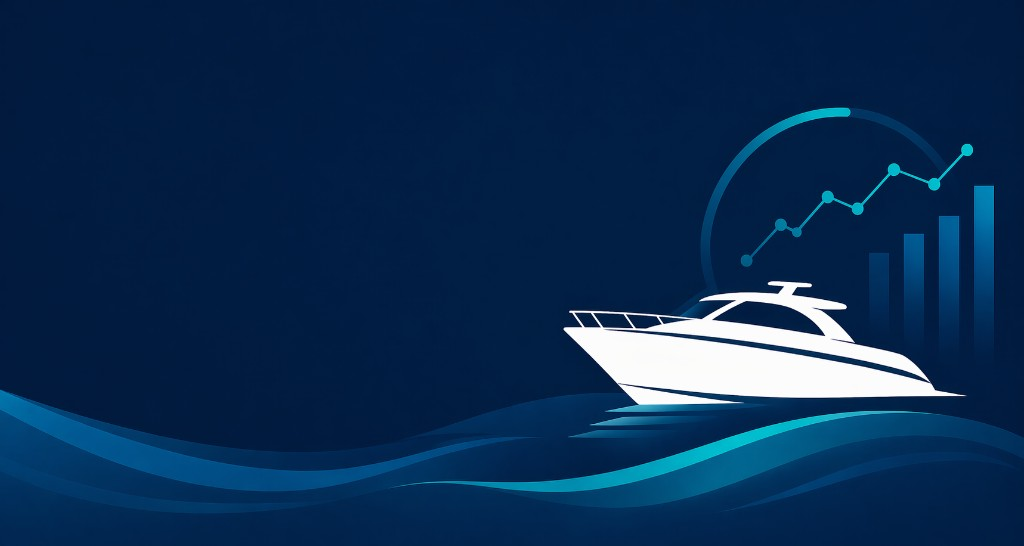
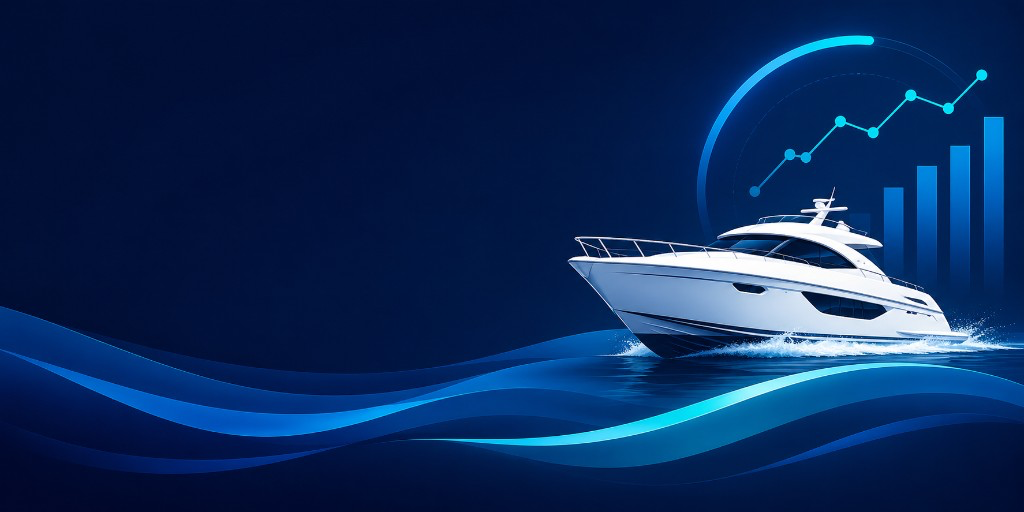
feat(hero): new header cover art and align hero framing
Use updated header-bg assets; position hero background right for layout balance.
Load global cached listings for deal insights on Index and My Boats. Add strict sailboat catamaran correction migration.

diff --git a/src/pages/Index.tsx b/src/pages/Index.tsx
@@ -164,6 +164,7 @@ const Index = () => {
   const [savedIds, setSavedIds] = useState<Set<string>>(new Set());
   const [goodDealsOnly, setGoodDealsOnly] = useState(false);
   const [compareIds, setCompareIds] = useState<Set<string>>(new Set());
+  const [marketListings, setMarketListings] = useState<CachedListing[]>([]);
   const [compareOpen, setCompareOpen] = useState(false);
   const [selectedGuideId, setSelectedGuideId] = useState<string | null>(null);
   const [importOpen, setImportOpen] = useState(false);
@@ -320,6 +321,27 @@ const Index = () => {
     fetchListings();
   }, [boatTypeFilter, sourceFilter, userCoords]);
 
+  useEffect(() => {
+    const fetchMarketListings = async () => {
+      try {
+        const { data, error } = await supabase
+          .from("cached_listings")
+          .select("*")
+          .not("price_eur", "is", null)
+          .not("length_feet", "is", null)
+          .not("year", "is", null)
+          .not("segment", "is", null)
+          .limit(100000);
+        if (!error && data) {
+          setMarketListings(data as CachedListing[]);
+        }
+      } catch (e) {
+        console.error("Failed to fetch global market listings:", e);
+      }
+    };
+    fetchMarketListings();
+  }, []);
+
   const availableSegments = (() => {
     const base = listings.filter((l) => !!l.segment);
     const scoped =
@@ -371,7 +393,7 @@ const Index = () => {
       if (!haystack.includes(q)) return false;
     }
     if (goodDealsOnly) {
-      const insight = getDealInsight(l, listings);
+      const insight = getDealInsight(l, marketListings);
       if (!insight.gapPct || insight.gapPct < 12) return false;
     }
     return true;
@@ -383,8 +405,8 @@ const Index = () => {
     if (sortBy === "length_high") return (b.length_feet ?? 0) - (a.length_feet ?? 0);
     if (sortBy === "year_newest") return (b.year ?? 0) - (a.year ?? 0);
     if (sortBy === "best_deal") {
-      const aGap = getDealInsight(a, listings).gapPct ?? -9999;
-      const bGap = getDealInsight(b, listings).gapPct ?? -9999;
+      const aGap = getDealInsight(a, marketListings).gapPct ?? -9999;
+      const bGap = getDealInsight(b, marketListings).gapPct ?? -9999;
       return bGap - aGap;
     }
     return new Date(b.scraped_at).getTime() - new Date(a.scraped_at).getTime();
@@ -752,7 +774,7 @@ const Index = () => {
   }
 
   const topDealsCandidates = listings
-    .map((listing) => ({ listing, insight: getDealInsight(listing, listings) }))
+    .map((listing) => ({ listing, insight: getDealInsight(listing, marketListings) }))
     .filter(
       (x) =>
         x.insight.gapPct !== null &&
@@ -1179,7 +1201,7 @@ const Index = () => {
             <div className="grid gap-3 sm:grid-cols-2 lg:grid-cols-3 xl:grid-cols-4 animate-fade-in">
               {paginatedListings.map((listing) => {
                 const img = getImageUrl(listing);
-                const insight = getDealInsight(listing, listings);
+                const insight = getDealInsight(listing, marketListings);
                 return (
                   <BoatListingCard
                     key={listing.id}
@@ -1345,7 +1367,7 @@ const Index = () => {
           </Card>
           <div className="grid gap-3 sm:grid-cols-2 lg:grid-cols-4">
             {compareListings.map((b) => {
-              const insight = getDealInsight(b, listings);
+              const insight = getDealInsight(b, marketListings);
               const img = getImageUrl(b);
               return (
                 <Card key={`cmp-${b.id}`} className="overflow-hidden border-border/60 shadow-sm hover:shadow-md transition-shadow bg-card/95">

diff --git a/src/pages/MyBoats.tsx b/src/pages/MyBoats.tsx
@@ -50,6 +50,7 @@ const MyBoats = () => {
   const [boats, setBoats] = useState<SavedBoat[]>(getSavedBoats);
   const [listings, setListings] = useState<SavedListing[]>(getSavedListings);
   const [cachedListings, setCachedListings] = useState<CachedListing[]>([]);
+  const [marketListings, setMarketListings] = useState<CachedListing[]>([]);
   const [selectedListing, setSelectedListing] = useState<CachedListing | null>(null);
   const [modalOpen, setModalOpen] = useState(false);
   const [modalInitialTab, setModalInitialTab] = useState<"details" | "evaluate" | "costs">("details");
@@ -93,6 +94,23 @@ const MyBoats = () => {
     };
     loadCachedListings();
   }, [listings]);
+
+  useEffect(() => {
+    const loadMarketListings = async () => {
+      const { data } = await supabase
+        .from("cached_listings")
+        .select("*")
+        .not("price_eur", "is", null)
+        .not("length_feet", "is", null)
+        .not("year", "is", null)
+        .not("segment", "is", null)
+        .limit(100000);
+      if (data) {
+        setMarketListings(data as CachedListing[]);
+      }
+    };
+    loadMarketListings();
+  }, []);
 
   const handleDelete = (id: string) => {
     deleteBoat(id);
@@ -303,7 +321,7 @@ const MyBoats = () => {
               <h2 className="text-sm font-semibold text-muted-foreground uppercase tracking-wide mb-3">Saved Listings ({listings.length})</h2>
               <div className="grid gap-3 sm:grid-cols-2">
                 {cachedListings.map((listing) => {
-                  const insight = getDealInsight(listing, cachedListings);
+                  const insight = getDealInsight(listing, marketListings);
                   return (
                     <BoatListingCard
                       key={listing.id}

diff --git a/src/index.css b/src/index.css
@@ -81,7 +81,7 @@
         url("/header-bg@3x.png") 3x
       );
     background-size: cover;
-    background-position: center;
+    background-position: right center;
     background-repeat: no-repeat;
   }
 
